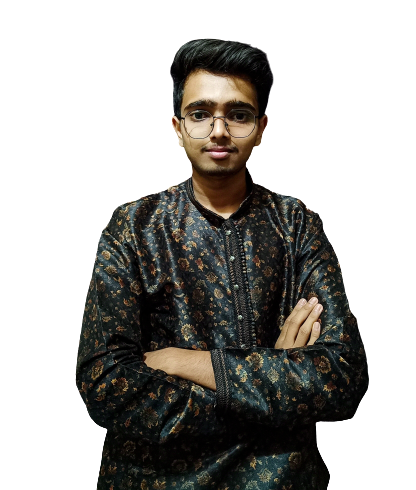
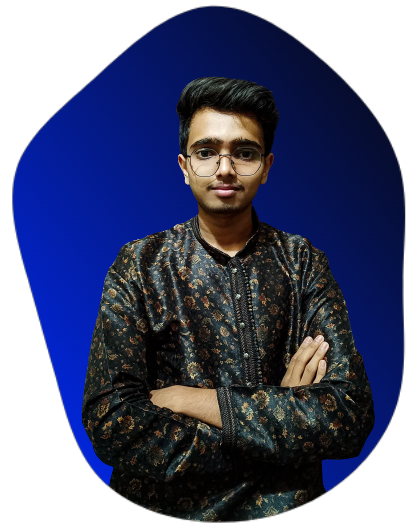
IMG

diff --git a/about.html b/about.html
@@ -52,9 +52,9 @@
         }
     
         .pic img{
-            width: 350px;
-            height: 550px;
-            object-fit: cover;
+            /* width: 350px;
+            height: 550px; */
+            /* object-fit: cover; */
         }
         .info{
             width: 50%;
